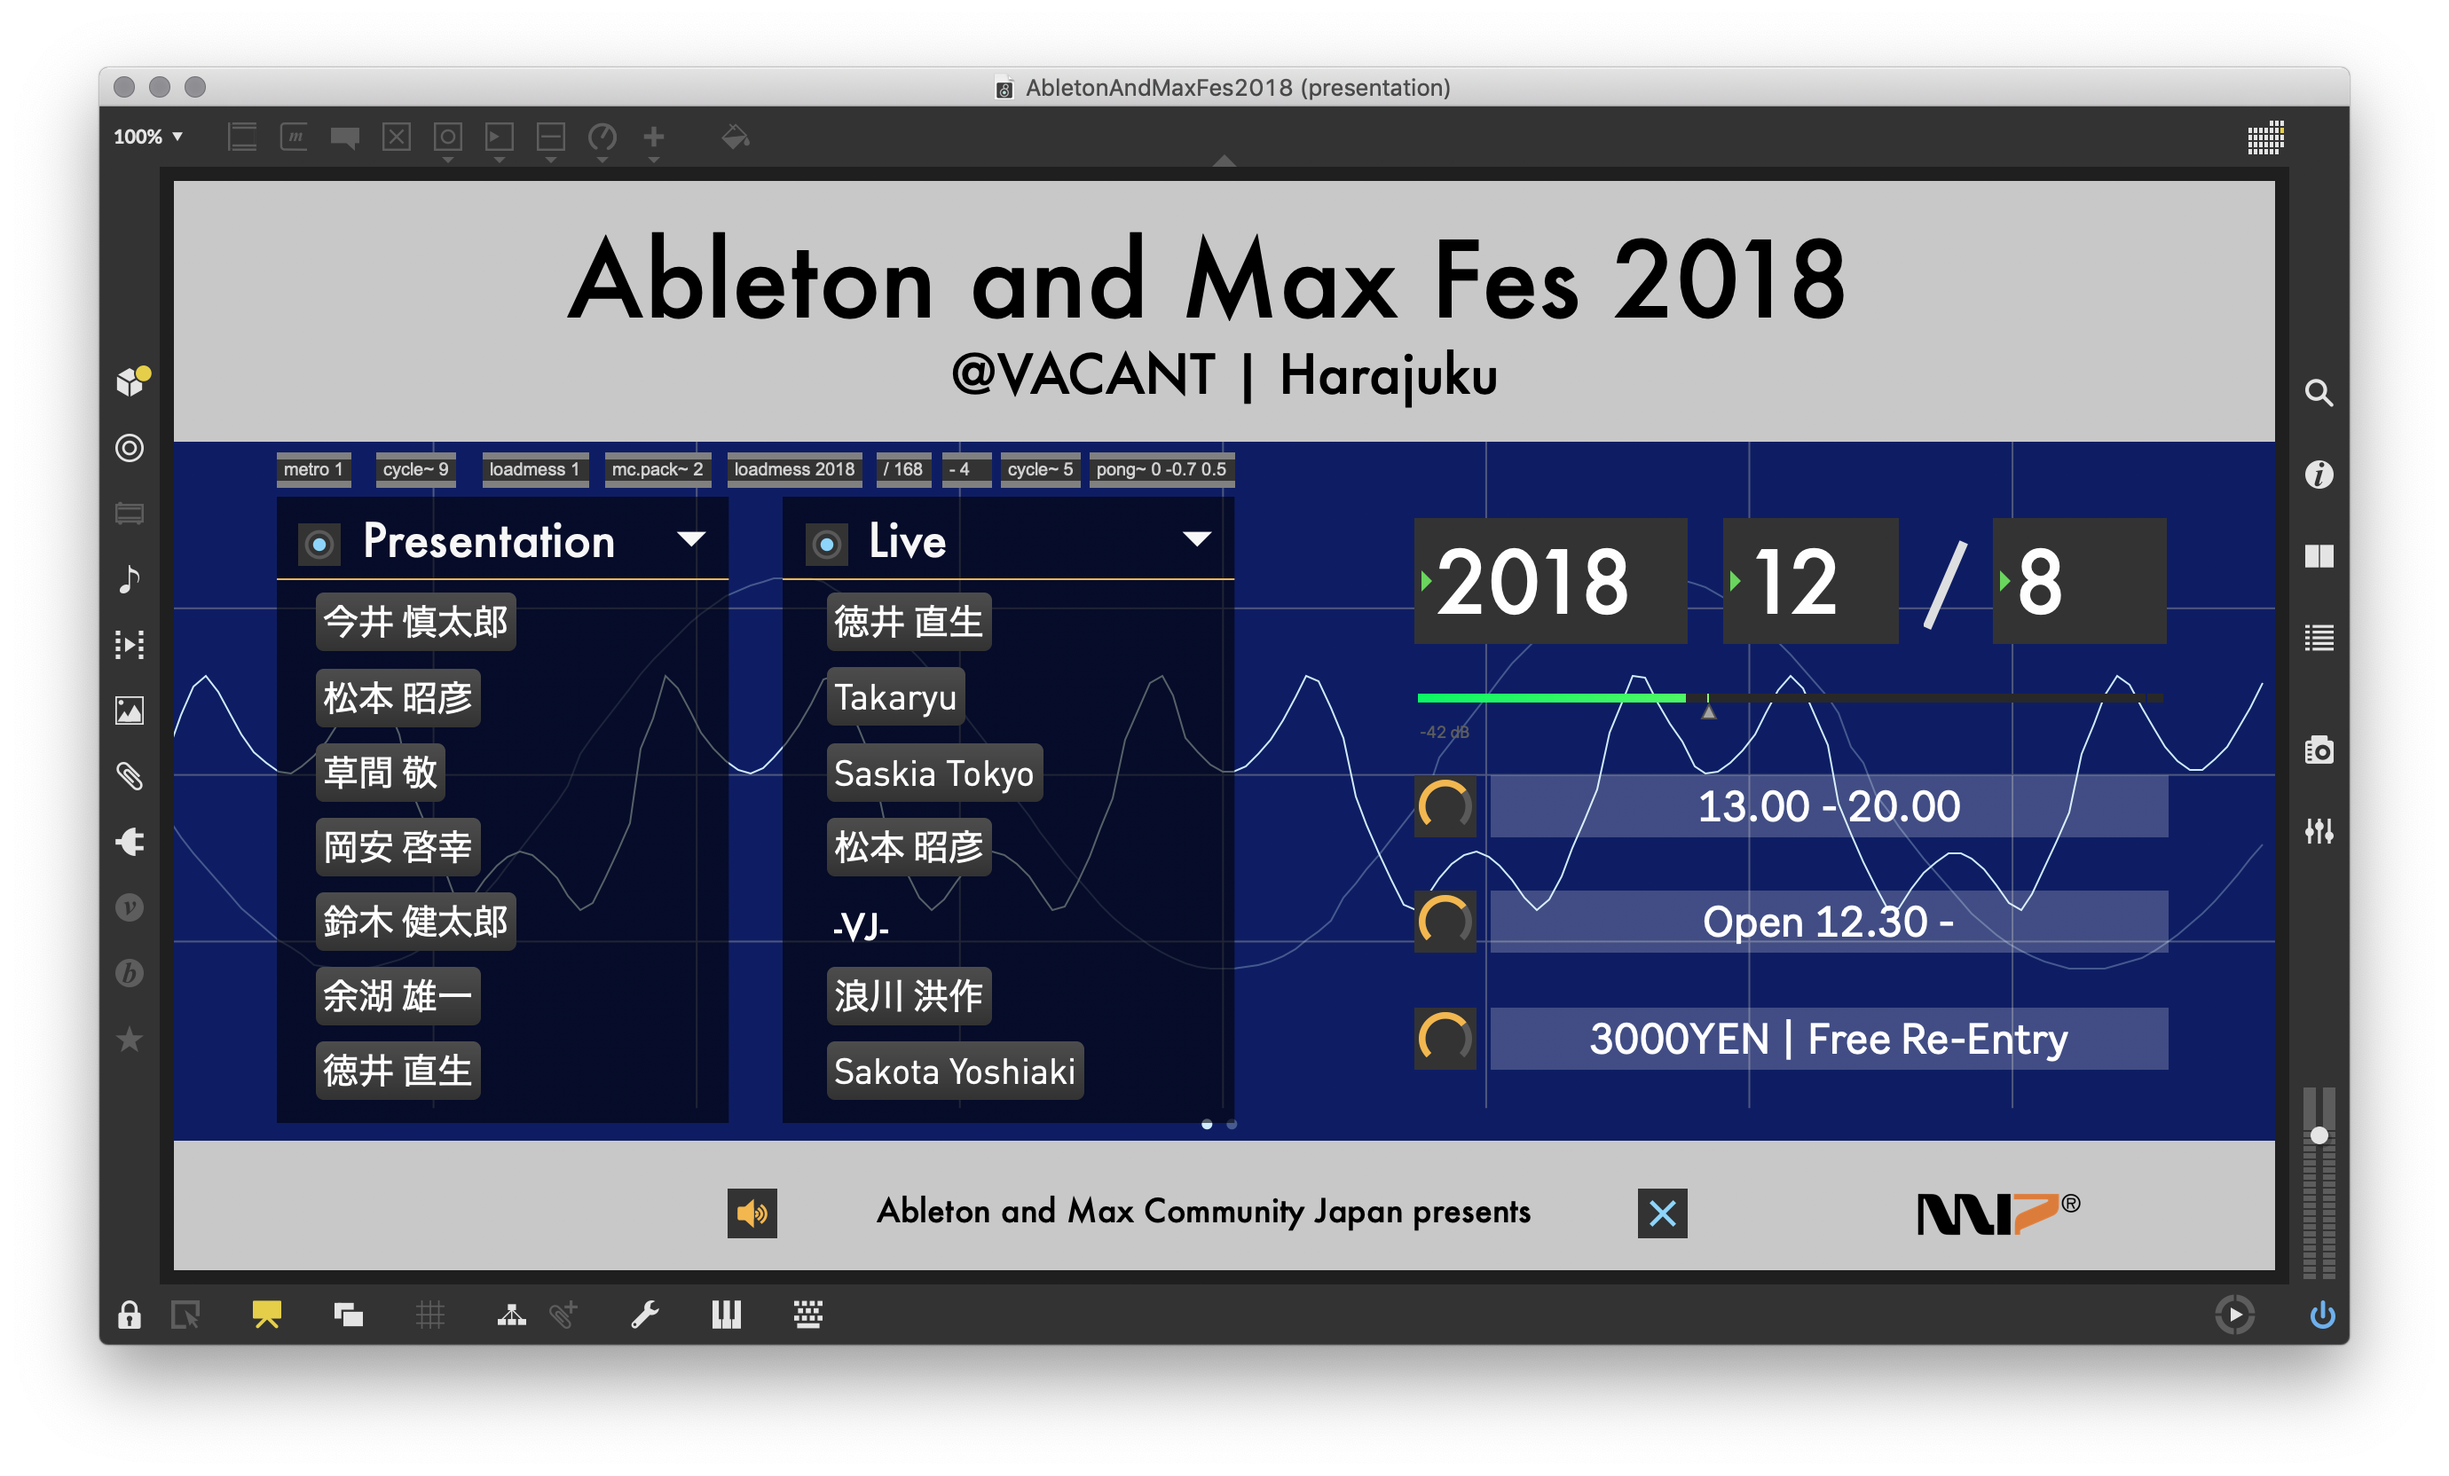
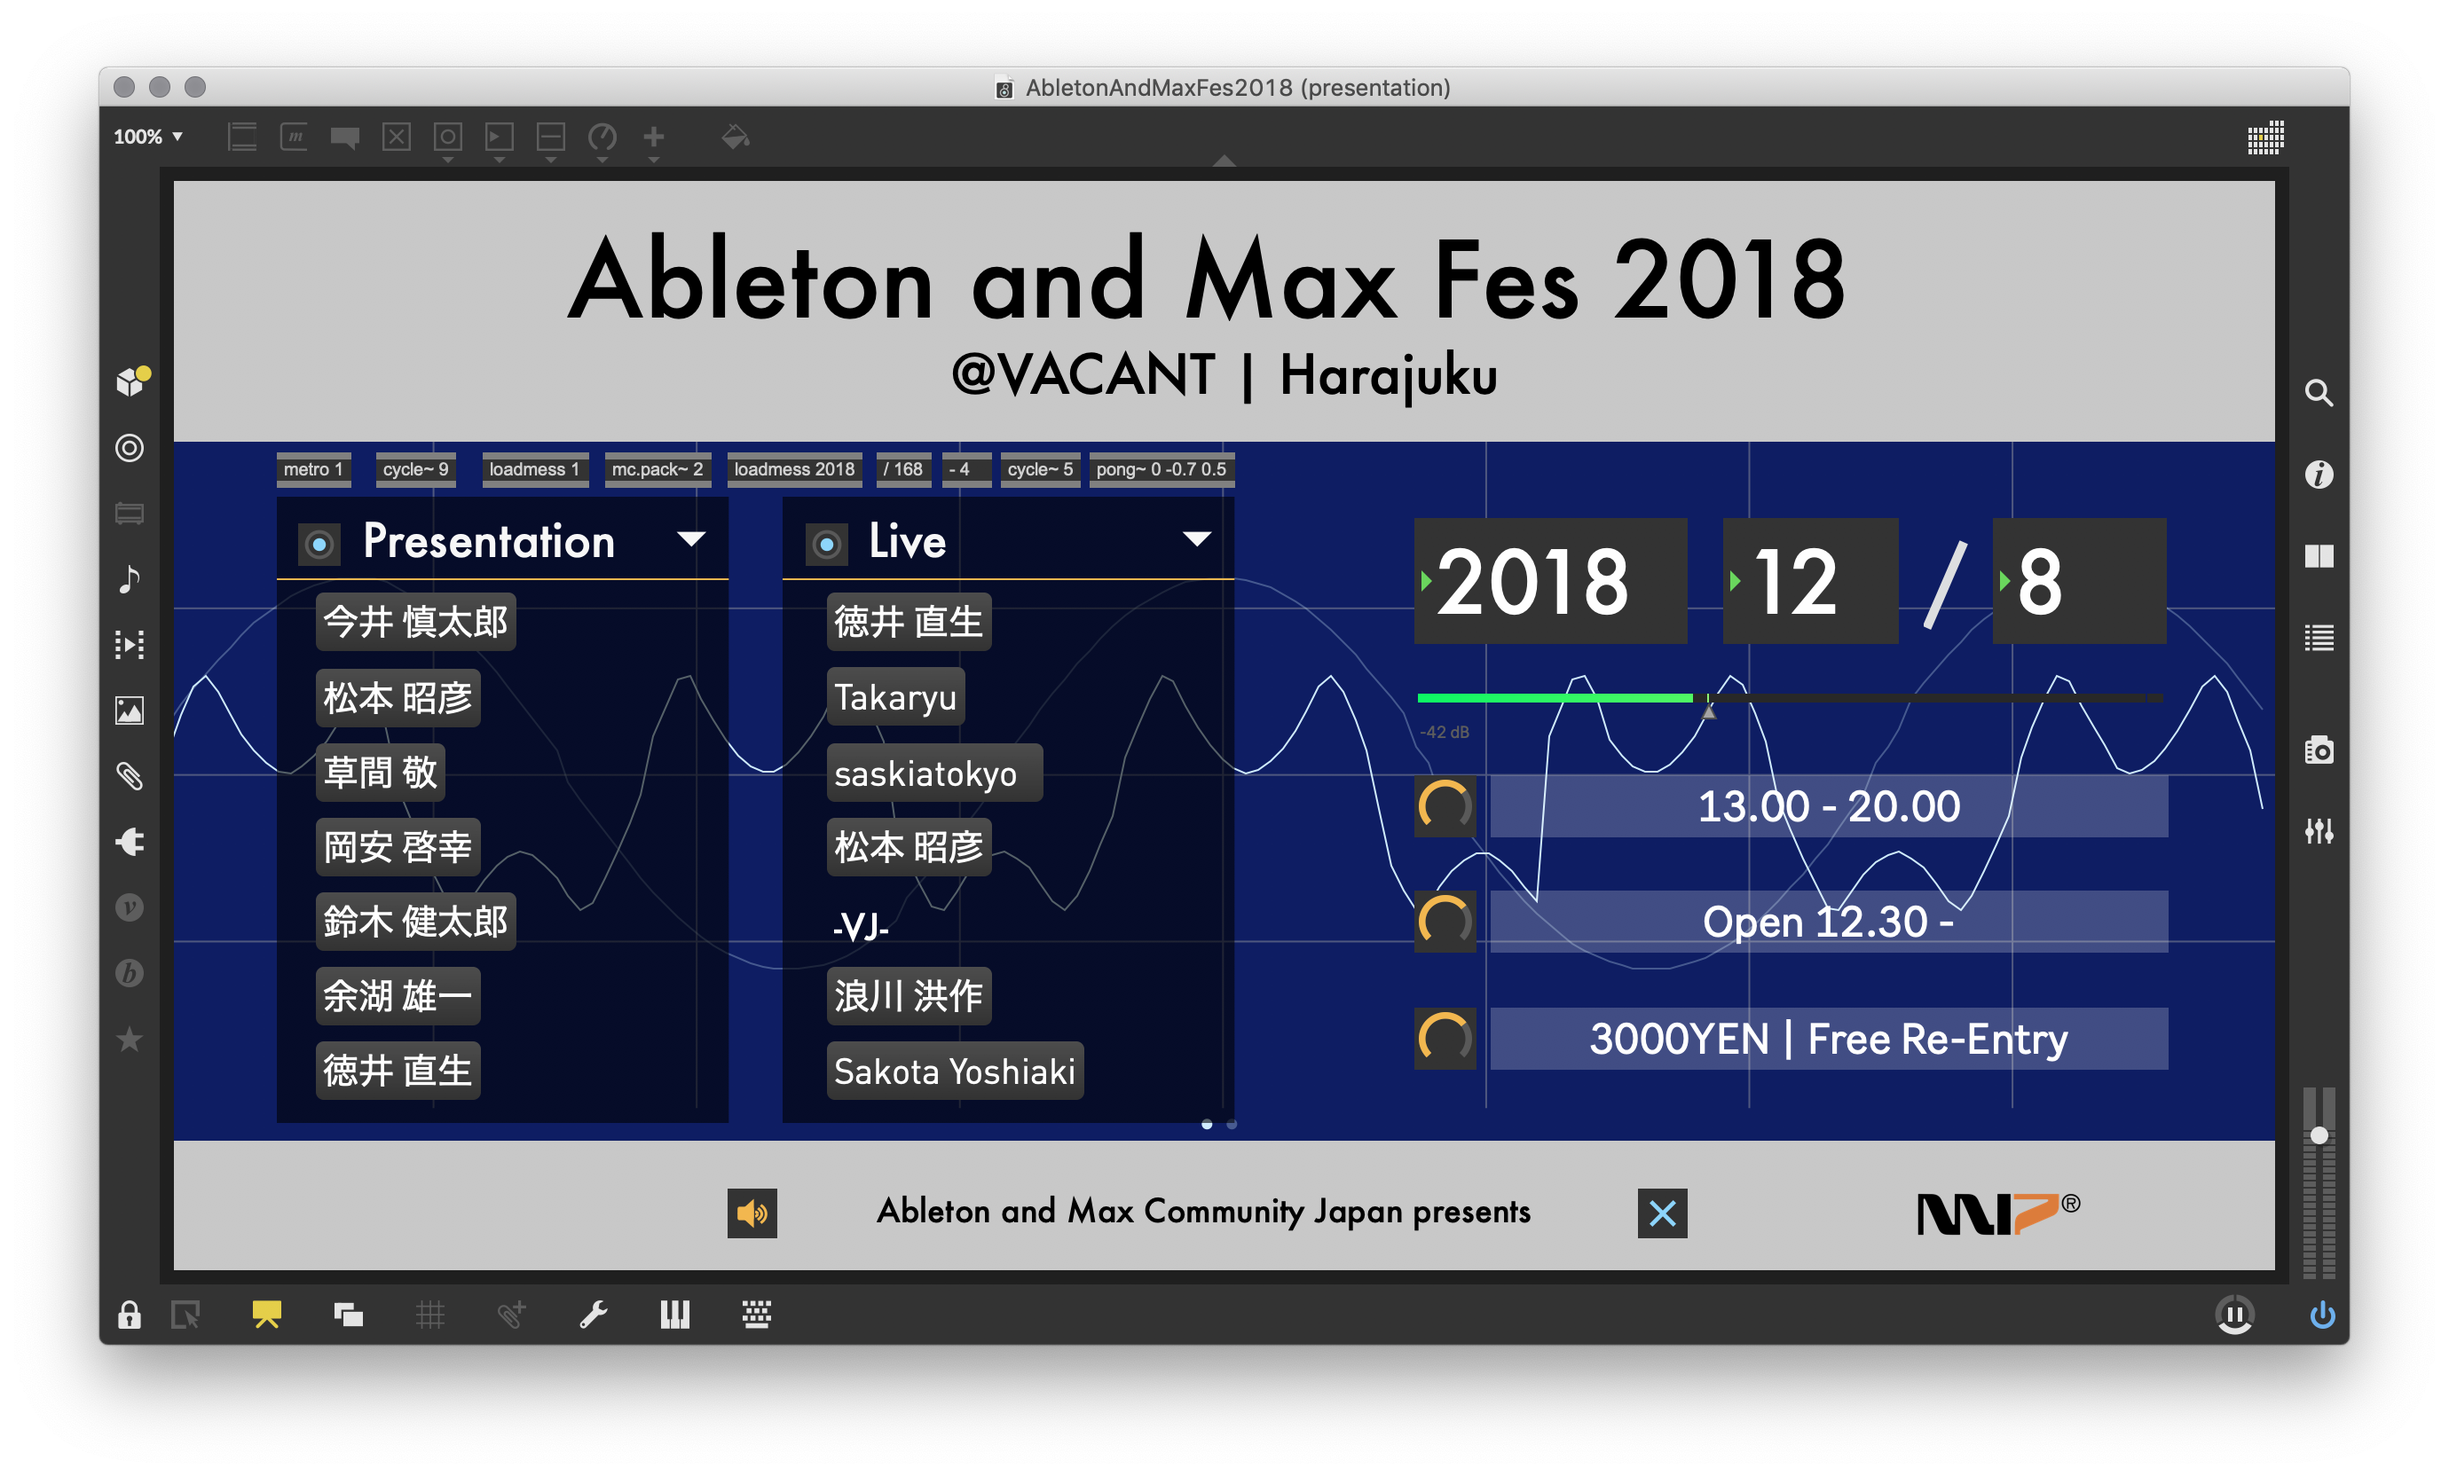
Site updated: 2018-11-13 16:49:20

diff --git a/2018/11/10/aamf-2018/index.html b/2018/11/10/aamf-2018/index.html
@@ -15,7 +15,7 @@
 <meta property="og:description" content="MaxとM4Lプログラマーのためのライブ&amp;amp;プレゼンテーションイベントAbleton and Max Fes 2018 12月8日、VACANT 原宿にて開催  入場料: 3000円 当日券のみ / 再入場可協賛: MI7, Ableton Japan  Time Table-Presentation-  13:00-13:40 今井 慎太郎  Maxの概要/Max8の新機能紹介  13:4">
 <meta property="og:locale" content="default">
 <meta property="og:image" content="http://yoursit.com/2018/11/10/aamf-2018/aamf2018_flyer.png">
-<meta property="og:updated_time" content="2018-11-12T04:48:00.334Z">
+<meta property="og:updated_time" content="2018-11-13T07:48:47.387Z">
 <meta name="twitter:card" content="summary">
 <meta name="twitter:title" content="Ableton and Max Fes 2018">
 <meta name="twitter:description" content="MaxとM4Lプログラマーのためのライブ&amp;amp;プレゼンテーションイベントAbleton and Max Fes 2018 12月8日、VACANT 原宿にて開催  入場料: 3000円 当日券のみ / 再入場可協賛: MI7, Ableton Japan  Time Table-Presentation-  13:00-13:40 今井 慎太郎  Maxの概要/Max8の新機能紹介  13:4">
@@ -109,7 +109,7 @@
 </li>
 <li><p>18:30-19:00 <strong>Takaryu</strong></p>
 </li>
-<li><p>19:00-19:30 <strong>Saskia Tokyo</strong></p>
+<li><p>19:00-19:30 <strong>saskiatokyo</strong></p>
 </li>
 <li><p>19:30-20:00 <strong>松本 昭彦</strong></p>
 </li>

diff --git a/index.html b/index.html
@@ -105,7 +105,7 @@
 </li>
 <li><p>18:30-19:00 <strong>Takaryu</strong></p>
 </li>
-<li><p>19:00-19:30 <strong>Saskia Tokyo</strong></p>
+<li><p>19:00-19:30 <strong>saskiatokyo</strong></p>
 </li>
 <li><p>19:30-20:00 <strong>松本 昭彦</strong></p>
 </li>
